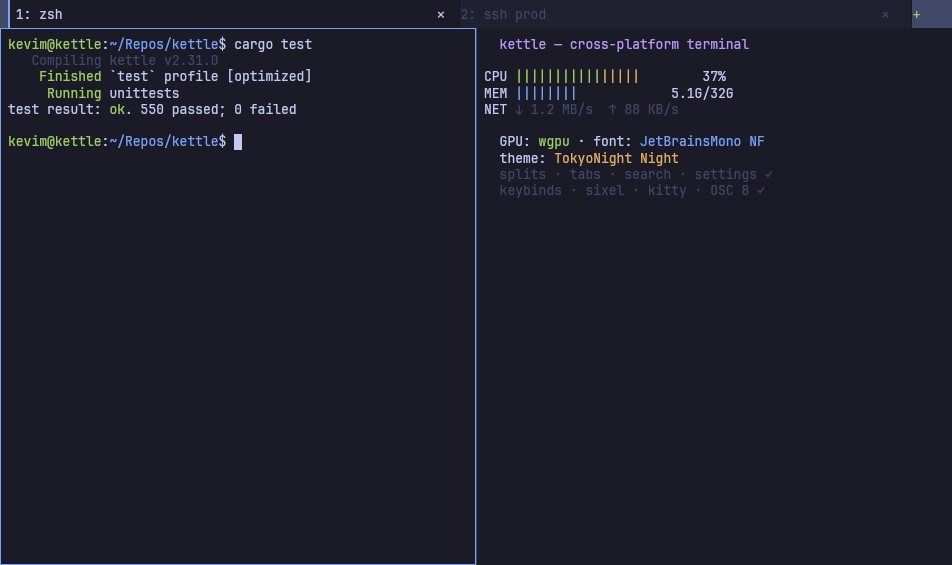
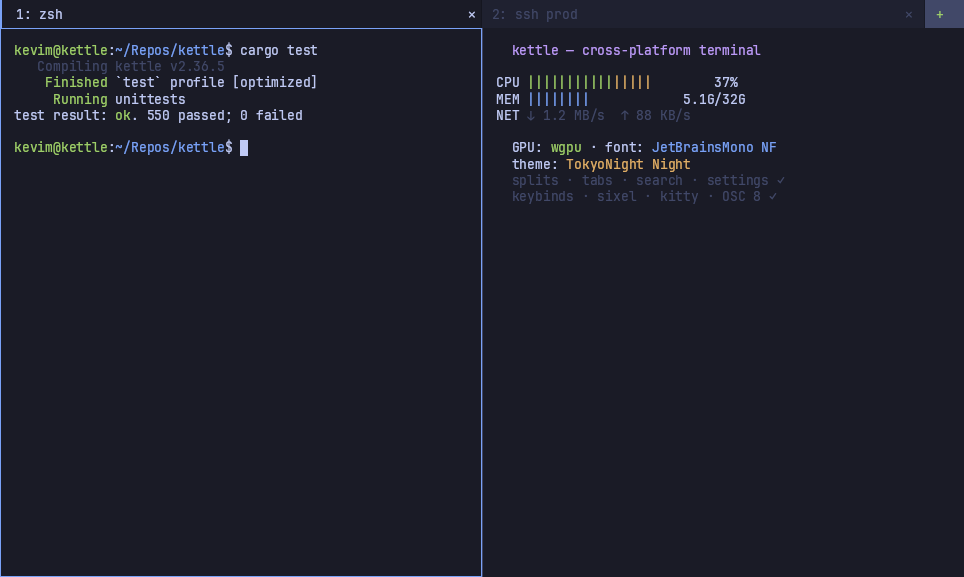
fix(ui): align the 2-tab boundary with a centered vertical split
The tab strip packed flush-left into the width left of the trailing ▾/+
buttons, so with 2 tabs the tab1/tab2 boundary sat one tab-bar-height left of
the window centre while a 50/50 vertical split's divider sits at the centre —
the split line didn't continue the tab boundary.

tab_strip_layout now divides the FULL bar width (strip + button reservation)
so tab boundaries fall on the same grid as pane splits for any tab count; only
the last tab is shortened to yield the buttons, falling back to the prior
even-fill/overflow packing when that would drop a tab below tab_min_width. The
re-dock 2-tab slot hit-test uses the same full-width centre, and the synthetic
README hero scene (kettle-render) is aligned to match; docs/images/kettle-hero.png
regenerated (also current version label, was stale at v2.31.0).

Adds tab_strip_layout_aligns_boundary_with_split_seam cross-checking the 2-tab
boundary against the mux split seam.

diff --git a/crates/kettle-ui/src/app.rs b/crates/kettle-ui/src/app.rs
@@ -805,8 +805,13 @@ fn cache_dir_from_env<F: Fn(&str) -> Option<String>>(get: F) -> Option<std::path
 /// edge once it scrolls past the first page). Pure — no `&self`, no renderer, no
 /// winit — so it is unit-testable.
 struct TabStripLayout {
-    /// Uniform per-tab width.
+    /// Per-tab width for every tab EXCEPT the last one.
     width: f32,
+    /// Width of the LAST tab. Equal to `width` in every layout except the
+    /// full-width-aligned one, where the last tab yields the trailing `▾`/`+`
+    /// button reservation so the other tab boundaries land on the same grid as
+    /// vertical pane splits.
+    last_width: f32,
     /// On-screen left x per tab, or `None` when scrolled out of view.
     xs: Vec<Option<f32>>,
     /// Left x of the `‹` / `›` scroll buttons when the bar overflows.
@@ -818,6 +823,7 @@ fn tab_strip_layout(
     n: usize,
     active: usize,
     strip: f32,
+    trailing_reserve: f32,
     arrow_w: f32,
     min_w: f32,
     scroll: bool,
@@ -825,15 +831,39 @@ fn tab_strip_layout(
     let n = n.max(1);
     let strip = strip.max(1.0);
     let min_w = min_w.max(1.0);
+    let reserve = trailing_reserve.max(0.0);
+    // Preferred layout: divide the FULL bar width (the button-trimmed `strip`
+    // PLUS the trailing `▾`/`+` reservation) evenly, so tab boundaries fall on
+    // the same grid as vertical pane splits — with 2 tabs the tab1/tab2
+    // boundary lands at the window centre, in line with a 50/50 split's
+    // divider. Only the LAST tab is shortened to yield the button reservation
+    // (its right edge stops at `strip`); every other tab is `even_full` wide.
+    // Used whenever the shortened last tab still clears `min_w` (so no tab is
+    // driven below the floor). `reserve == 0` degrades to plain even fill.
+    let full = strip + reserve;
+    let even_full = full / n as f32;
+    let last_full = even_full - reserve;
+    if last_full >= min_w {
+        let xs = (0..n).map(|i| Some(i as f32 * even_full)).collect();
+        return TabStripLayout {
+            width: even_full,
+            last_width: last_full,
+            xs,
+            arrow_left: None,
+            arrow_right: None,
+        };
+    }
     let even = strip / n as f32;
     if !scroll || even >= min_w {
-        // Fits, or scrolling disabled: tabs divide the strip evenly and fill it,
-        // left-packed. (With scrolling off and many tabs, width may fall below
-        // min_w — they just keep shrinking, no overflow scroll.)
+        // Full-width alignment would shrink the last tab below `min_w`, so fall
+        // back to the original behavior: tabs divide the button-trimmed `strip`
+        // evenly and fill it, left-packed. (With scrolling off and many tabs,
+        // width may fall below min_w — they just keep shrinking, no overflow.)
         let width = even;
         let xs = (0..n).map(|i| Some(i as f32 * width)).collect();
         return TabStripLayout {
             width,
+            last_width: width,
             xs,
             arrow_left: None,
             arrow_right: None,
@@ -862,6 +892,7 @@ fn tab_strip_layout(
         .collect();
     TabStripLayout {
         width,
+        last_width: width,
         xs,
         arrow_left: Some(0.0),
         arrow_right: Some(strip - arrow_w),
@@ -4184,6 +4215,7 @@ impl App {
             n,
             active,
             strip,
+            button_w,
             height,
             self.cfg.tab_min_width,
             self.cfg.scroll_tabbar,
@@ -4191,7 +4223,6 @@ impl App {
         // Tabs scrolled out of view are parked off-screen (kept in the segment
         // list, idx-indexed, so reorder / dock / ghost logic is undisturbed).
         const OFFSCREEN_X: f32 = -100_000.0;
-        let seg_w = layout.width;
         let now = std::time::Instant::now();
         let silence = std::time::Duration::from_millis(self.cfg.tab_silence_threshold_ms);
         let segments: Vec<TabSeg> = labels
@@ -4221,6 +4252,14 @@ impl App {
                         }
                     })
                     .unwrap_or(RenderTabActivity::Normal);
+                // The last tab yields the trailing `▾`/`+` button reservation
+                // in the full-width-aligned layout, so it is narrower than the
+                // rest; every other layout has `last_width == width`.
+                let seg_w = if i + 1 == n {
+                    layout.last_width
+                } else {
+                    layout.width
+                };
                 let rect = (x, y, seg_w, height);
                 let close = (x + seg_w - height, y, height, height);
                 TabSeg {
@@ -15123,9 +15162,12 @@ impl App {
             let (mid, c) = if vertical {
                 (bh * 0.5, cy)
             } else {
+                // The tab1/tab2 boundary is the FULL band centre (the tab strip
+                // divides the full width so its boundaries align with pane
+                // splits — see `tab_strip_layout`), not the button-trimmed
+                // strip centre; the slot flip must sit on that same boundary.
                 let (bx, _, bw, _) = band;
-                let arrow_w = if new_tab_dropdown_visible() { bh } else { 0.0 };
-                (bx + tab_segment_strip_width(bw, bh, arrow_w) * 0.5, cx)
+                (bx + bw * 0.5, cx)
             };
             Some(if c < mid { 0 } else { 1 })
         }
@@ -21714,19 +21756,22 @@ mod tests {
     #[test]
     fn tab_strip_layout_fills_and_overflows() {
         use super::tab_strip_layout;
+        // (No trailing button reserve here so this drift guard keeps exercising
+        // the fill/overflow behavior directly; the full-width-aligned path with
+        // a real reserve is covered by the alignment test below.)
         // Few tabs on a wide strip FILL the bar — 2 tabs each take half (no max
         // cap), left-packed, no arrows.
-        let l = tab_strip_layout(2, 0, 1920.0, 24.0, 120.0, true);
+        let l = tab_strip_layout(2, 0, 1920.0, 0.0, 24.0, 120.0, true);
         assert_eq!(l.width, 960.0);
         assert_eq!(l.xs, vec![Some(0.0), Some(960.0)]);
         assert!(l.arrow_left.is_none() && l.arrow_right.is_none());
         // Even division also fills for more tabs while above the min floor.
         assert_eq!(
-            tab_strip_layout(4, 0, 800.0, 24.0, 120.0, true).width,
+            tab_strip_layout(4, 0, 800.0, 0.0, 24.0, 120.0, true).width,
             200.0
         );
         // Many tabs: overflow → min width, arrows, only whole tabs shown.
-        let l = tab_strip_layout(20, 0, 800.0, 24.0, 120.0, true);
+        let l = tab_strip_layout(20, 0, 800.0, 0.0, 24.0, 120.0, true);
         assert_eq!(l.width, 120.0);
         assert!(l.arrow_left.is_some() && l.arrow_right.is_some());
         let visible = l.xs.iter().filter(|x| x.is_some()).count();
@@ -21736,14 +21781,47 @@ mod tests {
         );
         assert_eq!(l.xs[0], Some(24.0), "active tab 0 visible at the left");
         // Active near the end is pinned into view; early tabs scroll off.
-        let l = tab_strip_layout(20, 19, 800.0, 24.0, 120.0, true);
+        let l = tab_strip_layout(20, 19, 800.0, 0.0, 24.0, 120.0, true);
         assert!(l.xs[19].is_some(), "active tab 19 must be visible");
         assert!(l.xs[0].is_none(), "early tabs scrolled off");
         // Scrolling disabled: no arrows; width may fall below min (just shrinks).
-        let l = tab_strip_layout(20, 0, 800.0, 24.0, 120.0, false);
+        let l = tab_strip_layout(20, 0, 800.0, 0.0, 24.0, 120.0, false);
         assert!(l.arrow_left.is_none() && l.arrow_right.is_none() && l.width < 120.0);
         // Degenerate (no tabs): panic-safe, one slot.
-        assert_eq!(tab_strip_layout(0, 0, 100.0, 24.0, 120.0, true).xs.len(), 1);
+        assert_eq!(
+            tab_strip_layout(0, 0, 100.0, 0.0, 24.0, 120.0, true)
+                .xs
+                .len(),
+            1
+        );
+    }
+
+    /// The 2-tab boundary must line up with a centered vertical pane split so
+    /// the split divider visually continues the tab boundary. With the trailing
+    /// `▾`/`+` reservation, tabs divide the FULL bar width and only the last tab
+    /// is shortened.
+    #[test]
+    fn tab_strip_layout_aligns_boundary_with_split_seam() {
+        use super::{tab_segment_strip_width, tab_strip_layout};
+        let w = 1000.0_f32; // window / content width
+        let h = 24.0_f32; // tab-bar height == each button's side
+        let reserve = 2.0 * h; // `▾` + `+`
+        let strip = tab_segment_strip_width(w, h, h); // button-trimmed strip
+        let l = tab_strip_layout(2, 0, strip, reserve, h, 120.0, true);
+        // tab1/tab2 boundary at the window centre …
+        assert_eq!(l.xs, vec![Some(0.0), Some(w / 2.0)]);
+        // … which is exactly where a 50/50 vertical split's divider sits
+        // (`mux::Node::layout`: `x + round(content_w * ratio)`, content_w == w).
+        assert_eq!(l.xs[1], Some((w * 0.5).round()));
+        // tab 1 is a full half; tab 2 yields the button reservation.
+        assert_eq!(l.width, w / 2.0);
+        assert_eq!(l.last_width, w / 2.0 - reserve);
+        // The last tab's right edge stops exactly at the button strip.
+        assert_eq!(l.xs[1].unwrap() + l.last_width, strip);
+        // A window too narrow for the shortened last tab to clear min_w falls
+        // back to plain strip packing (no zero/negative last tab).
+        let narrow = tab_strip_layout(2, 0, 200.0, reserve, h, 120.0, true);
+        assert!(narrow.last_width > 0.0 && (narrow.last_width - narrow.width).abs() < 0.01);
     }
 
     /// Link/path overlay underlines must follow focused output immediately.

diff --git a/crates/kettle-render/src/lib.rs b/crates/kettle-render/src/lib.rs
@@ -6976,27 +6976,28 @@ pub fn capture_png_with_annotation(
         // always line up with the glyphs. The old fixed 240px segments were
         // ~2× wider than the ~120px labels, so the second tab's text floated
         // inside the first tab's highlight.
-        let tab_text_left = 8.0_f32;
-        // v2.31.0: tabs FILL the bar (the live v2.28.0 layout), NOT the old
-        // compact label-width tabs — the README hero/showcase must reflect the
-        // current style. Each tab takes an equal share of the strip (minus the
-        // trailing `+` button); the title is left-aligned and the ✕ sits at the
-        // tab's right edge, padded with spaces between. Monospace, so a label's
-        // pixel width is its char count × `cw` and `tab_cols` chars == `tab_w` px.
+        let tab_text_left = 0.0_f32;
+        // Tabs FILL the bar (the live layout), NOT old compact label-width tabs —
+        // the README hero/showcase must reflect the current style. v2.36.6: tabs
+        // divide the FULL bar width so the tab1/tab2 boundary lands on the split
+        // centre (`split_x`), so the vertical split divider visually continues
+        // the tab boundary — matching the live full-width `tab_strip_layout`.
+        // Only the last tab yields the trailing `+` button. Monospace, so a
+        // label's pixel width is its char count × `cw`.
         let tabplus_label = "  +  ";
         let plus_w = tabplus_label.chars().count() as f32 * cw;
-        let tab_w = (((wf - tab_text_left - plus_w) / 2.0).max(cw)).floor();
-        let tab_cols = (tab_w / cw).max(1.0) as usize;
-        let fill_tab = |title: &str| -> String {
+        // Tab 1 spans [0, split_x]; tab 2 spans [split_x, wf - plus_w].
+        let w0 = (split_x - tab_text_left).max(cw).floor();
+        let w1 = (wf - plus_w - split_x).max(cw).floor();
+        let fill_tab = |title: &str, cols: usize| -> String {
             let head = format!(" {title}");
             let tail = "✕ ";
             let used = head.chars().count() + tail.chars().count();
-            let gap = tab_cols.saturating_sub(used);
+            let gap = cols.saturating_sub(used);
             format!("{head}{}{tail}", " ".repeat(gap))
         };
-        let tab0_label = fill_tab("1: zsh");
-        let tab1_label = fill_tab("2: ssh prod");
-        let (w0, w1) = (tab_w, tab_w);
+        let tab0_label = fill_tab("1: zsh", (w0 / cw).max(1.0) as usize);
+        let tab1_label = fill_tab("2: ssh prod", (w1 / cw).max(1.0) as usize);
         q.push(rect(0.0, 0.0, wf, tab_h, theme.palette[8], 1.0));
         // Active tab 0: themed background + a 2px left accent bar (live style).
         // Cascade through the resolved accent so peacock + the theme's

diff --git a/CHANGELOG.md b/CHANGELOG.md
@@ -6,7 +6,16 @@ durable, fully-tested cycles (lint · build · test · docs · commit · CI).
 
 ## [Unreleased]
 
-## [2.36.5] — 2026-07-21
+  ### Fixed
+  - **With 2 tabs, the tab boundary now lines up with a centered vertical
+    split.** The tab strip was packed flush-left into the width left of the
+    trailing `▾`/`+` buttons, so the tab1/tab2 boundary sat one tab-bar-height
+    left of the window centre while a 50/50 split's divider sits at the centre —
+    the split line didn't continue the tab boundary. Tabs now divide the FULL
+    bar width (so their boundaries fall on the same grid as pane splits for any
+    tab count); only the last tab is shortened to yield the button reservation.
+    The re-dock slot hit-test and the synthetic README hero/showcase scene use
+    the same centre, and `docs/images/kettle-hero.png` was regenerated to match.
 
   ### Added
   - **Copying a file in the OS file manager and pasting it into a pane now
